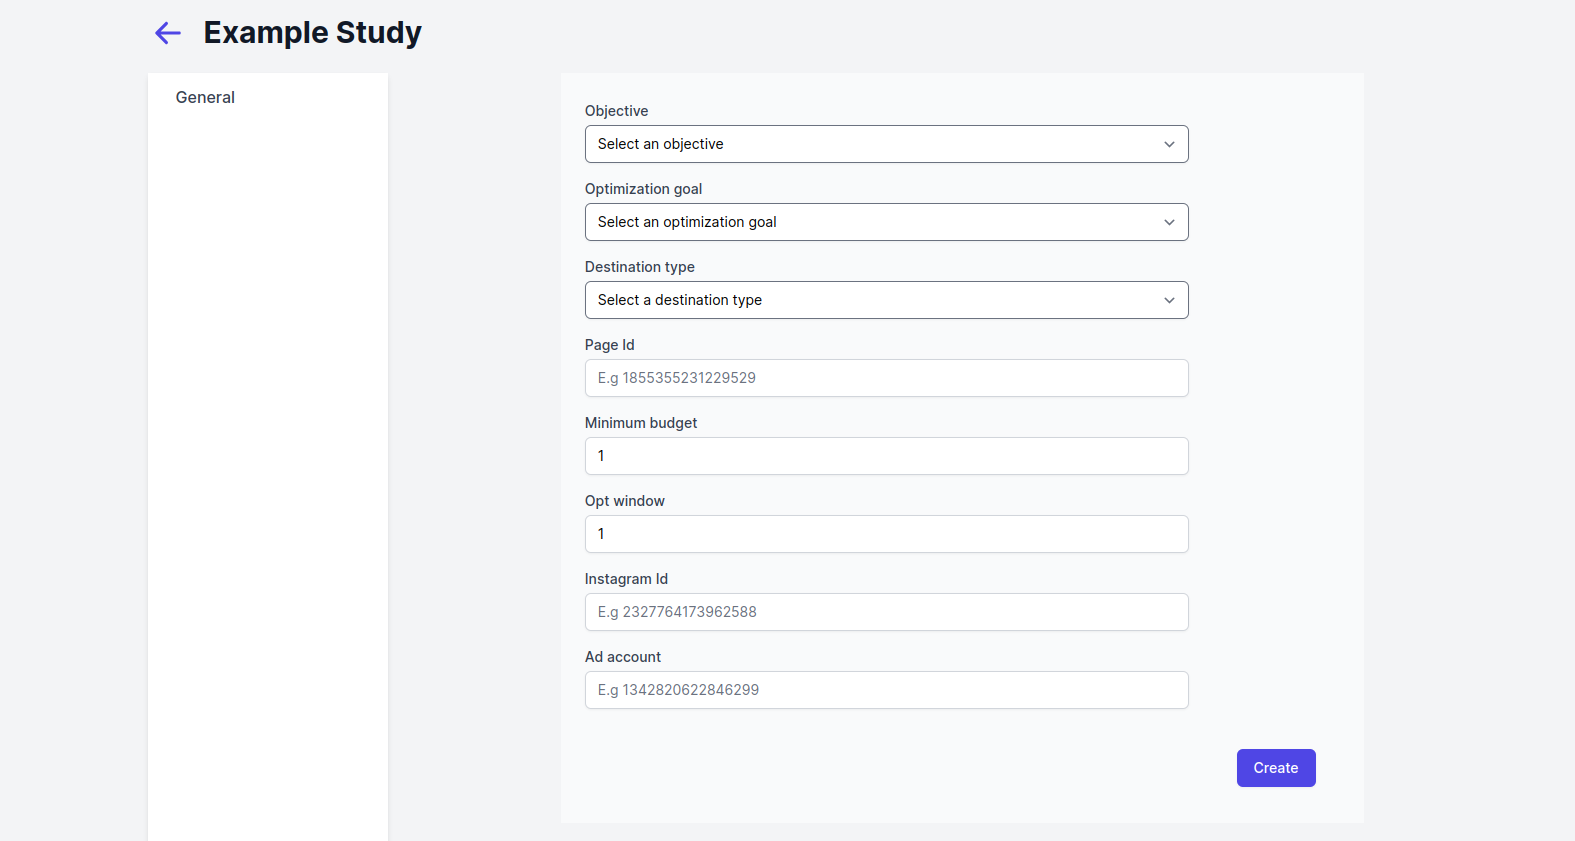
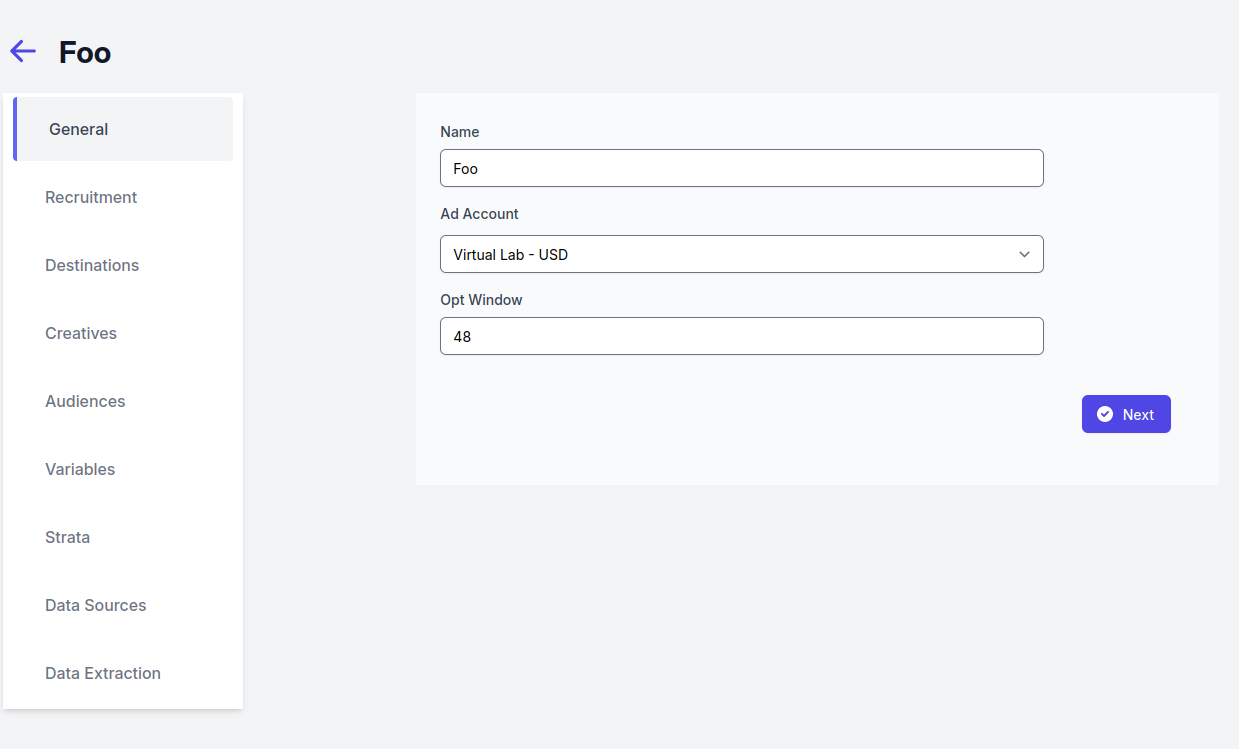
feat: added new config screen docs: data sources/extraction

diff --git a/content/vlab/study-configuration/recruitment.md b/content/vlab/study-configuration/recruitment.md
@@ -13,22 +13,29 @@ There are currently 3 types of recruitments:
 2. [Pipeline Experiment](#pipeline-experiment)
 3. [Destination Experiment](#destination-experiment)
 
+## Shared Fields
+
+Some fields are shared by all recruitment types:
+
+- `Ad Campaign Name`: This is the name of the ad campaign that will be created for recruitment.
+- `Objective`: This is the Facebook "objective" of the recruitment campaign. You can read about the various objectives [here](https://www.facebook.com/business/help/1438417719786914). Certain objectives allow for certain optimization goals. For example, if you want to optimize for "messages," you might pick "engagement" as the objective.
+- `Optimization Goal`: The Facebook optimization goal, also called the "performance goal." You can read more about the goals [here](https://www.facebook.com/business/help/416997652473726).
+- `Destination Type`: The type of destination that the ad will route people to. For example, if you're sending people to a Messenger chatbot, use "messenger." If you're sending people to a web survey, pick "web."
+- `Minimum Budget`: The minimum budget used by ads. No ad will ever run with less than this and this will be used as the starting/default budget when recruitment begins.
+- `Start Date`: The date in which the recruiting should start.
+- `End Date`: The date on which the recruiting should end.
+
 ## Simple
 
 This is the easiest of the recruiting strategies where the Virtual Labs platform will
 routinely check your ad campaign and update the campaign accordingly to try and
 achieve your recruiting goals.
 
-![recruitment simple conf](/images/recruitment-simple-conf.png)
 
 You will need to provide the following fields:
 
-- `Ad Campaign Name`: This is the name of the ad campaign that this recruitment
-    should be targeting
-- `Budget`: The amount you would like to spend in order to recruit your target
-- `Max Sample`: This is the maximum sample size
-- `Start Date`: The date in which the recruiting should start
-- `End Date`: The date on which the recruiting should end
+- `Budget`: The amount you would like to spend in order to recruit your maximum sample.
+- `Max Sample`: This is the maximum number of respondents to recruit.
 
 ## Destination Experiment
 
@@ -43,23 +50,17 @@ You will need to have the destinations configured and you will then need to set 
     of your experiment
 - `Destinations`: The list of destinations that should be involved within the
     experiment
-- `Start Date`: The date in which the recruiting should start
-- `End Date`: The date on which the recruiting should end
 
 
 ## Pipeline Experiment
 
 In this design, we generate an A/B test on Facebook but instead of sending your sample to different destinations, we run the ads at different times (a pipeline experiment design). You can set up how long each arm runs, and how long they are offset from the start of the previous arm.
 
-![recruitment pipeline conf](/images/recruitment-pipeline-conf.png)
-
 You will need to provide the following fields:
 
 - `Ad Campaign Name Base`: The name of the ad campaign(s) that vlab will create and use for recruitment. If you have more than one campaign (i.e. Destination Experiment), it will append -1, -2, etc. to this name
 - `Budget Per Arm`: How much you would like to spend per arm of your experiment
 - `Max Sample Per Arm`: How big of a sample you would like to set for each arm
-- `Start Date`: The date in which the recruiting should start
-- `End Date`: The date on which the recruiting should end
 - `Arms`: How many arms of the experiment would you like to create
 - `Recruitment Days`: How many days you would like the recruitment to run for
 - `Offset Days`: How many days you would like to pause the recruiting for

diff --git a/content/vlab/study-configuration/destination.md b/content/vlab/study-configuration/destination.md
@@ -9,24 +9,29 @@ Every study needs a destination, where do the recruitment ads send the users? De
 
 Towards that end, Virtual Lab supports a set a "destinations" and is written in such a way that it is easy to add a new destination. When configuring your study, you can create one or more destinations and each destination needs a unique name (key) that you can refer to it by.
 
+All destinations require the following fields:
+
+- `name`: The name of the destination, used to refer to it in other configuration screens.
+
 The following are currently supported along with their method of configuation:
 
-Fly Messenger Survey Destination. This creates "Messenger ads" in Facebook for when you want the user to be directed to a Fly Messenger Survey. It requires the following parameters:
+## Messenger
 
-- `initial_shortcode`: str The shortcode of the initial form users should be sent to.
-- `survey_name`: str The survey that contains all the forms with data of interest.
+This is a Fly Messenger Survey Destination. This creates "Messenger ads" in Facebook for when you want the user to be directed to a Fly Messenger Survey. It requires the following parameters:
 
-Typeform. Each Typeform destination needs the following parameters:
+- `Initial Shortcode`: The shortcode of the initial form users should be sent to.
+- `Welcome Message`: When someone clicks on your ads, they are directed to a Messenger chat with this initial message.
+- `Button Text`: This is the button that they click in the chat, in response to the welcome message, in order to start taking the survey.
 
-- `form_id`: str The Form ID of the Typeform you wish to send users to.
+## Web
 
-Curious Learning Literacy Apps. Requires the following parameters:
+- `Url Template`: The URL of the web survey, with `{ref}` wherever you want the Virtual Lab "ref" to be inserted into the URL. Virtual Lab "refs" contain a set of key-value pairs, separated by periods (`.`), containing metadata for each ad.
 
-- `from`: int Starting timestamp for retrieving app events from Literacy Data API.
-- `app_id`: str The app ID for the Google Play store.
-- `facebook_app_id`: str he app ID for Facebook.
-- `deeplink_template`: str
-- `app_install_state`: str
-- `user_device`: list[str]
-- `user_os`: list[str]
-- `attribution_id`: str
+## App
+Requires the following parameters:
+
+- `Facebook App ID`: The app ID for Facebook.
+- `Deeplink Template`: The deeplink template to link to the app, with `{ref}` wherever you want the Virtual Lab "ref" to be inserted into the URL. Virtual Lab "refs" contain a set of key-value pairs, separated by periods (`.`), containing metadata for each ad.
+- `App Install State`: The app install state, as per Facebook
+- `User Device`: The targeted devices.
+- `User OS`: Targeted install states.

diff --git a/content/vlab/study-configuration/creative.md b/content/vlab/study-configuration/creative.md
@@ -1,12 +1,27 @@
 ---
-title: "Creative"
+title: "Creatives"
 date: 2023-04-05T08:41:10+02:00
 draft: false
 weight: 8
 ---
 
-Recruitment needs ads and ads need creative. Each creative consists of one of several fields:
+What ads do you want to use to recruit respondents to your study? This is what we need to define with "Creatives".
 
-[fields]
+You first need to create what we call "template ads." To create any ad in Facebook, you first need to create a campaign, and we require that all template ads are in the same campaign, which we can also call a "template campaign". Template campaigns, and template ads, are never actually run. Virtual Lab uses them as "templates" to build its own campaigns and ads, which it will manage.
+
+Some parts of the template ads are ignored and some are used. The following parts of the ad will be ignored:
+
+- Ad name.
+- Anything related to a messenger destinations, including "Message template."
+- Anything related to destination URLs, including URL parameters.
+- Tracking.
+
+The parts that will be used are:
+
+- Identity: Facebook Page and/or Instagram account.
+- Ad setup: Using an existing post or creating new material.
+- Ad creative: The images and/or videos you choose, along with any optimizations. Also, the Primary text, Headline, Description, and Call to Action.
+
+By selecting a template campaign, you can then add as many "creatives" as you wish, selecting different template ads from the template campaign, and giving each a name which is used to refer to them in other configuration screens.
 
 Each creative also needs to be linked to a particular "destination". If you only have one destination (simple recruitment or pipeline experiment), they will all link to the same destination. If you have multiple destinations (Destination Experiment), then you need to specify different creative for each destination.

diff --git a/content/vlab/study-configuration/general.md b/content/vlab/study-configuration/general.md
@@ -5,11 +5,7 @@ draft: False
 weight: 0
 ---
 
-General Configuration is still pretty Facebook specific. This is used to setup
-the study and "glue" together all the various other configurations.
-
-You can configure the general configuration by going to the studies list page
-and clicking on the "configure" icon at the right of the study
+You can configure the general configuration by going to the studies list page and clicking on the "configure" icon at the right of the study
 
 This should open the following page:
 
@@ -17,11 +13,5 @@ This should open the following page:
 
 ### Fields
 
-- `Objective (required)`:
-- `Optimization Goal (required)`: What are we trying to optimize for?
-- `Destination Type (required)`: The type of destination that we are routing recruited people to
-- `Page Id (required)`: The identifier for the Facebook page that the study will be run from
-- `Minimum Budget (required)`: The minimum budget for the campaign
-- `Opt Window (required)`:
-- `Instagram Id (optional)`: The identifier of the Instagram account to use to target recruits
-- `Ad Account (required)`: The Ad's account to use to setup the ads used to recruit
+- `Ad Account`: The Facebook Ad Account that will run the ads used for recruitment.
+- `Opt Window`: This is the "optimization window." When the optimization algorithm estimates the price of any given stratum, it looks at the previous X hours, where X is defined with "Opt Window".

diff --git a/content/vlab/study-configuration/data_extraction.md b/content/vlab/study-configuration/data_extraction.md
@@ -1,0 +1,26 @@
+---
+title: Data Extraction
+weight: 18
+---
+
+In order to know which respondent corresponds to which strata, and who "finished," we need to extract "variables" from the data source.
+
+Virtual Lab maps variables from data sources into an internal name and format, so that it can optimize over them. This is where you define that mapping.
+
+The way you define the mapping depends on the data source, but there are some shared fields:
+
+- `Name`: This is the name of the variable as you wish it to be referred to in Virtual Lab. For example, this should be the name of a variable defined under Variables or under Strata (Finished Question Ref).
+
+The rest depend on the data source:
+
+# Fly
+
+- `Location`: Where is the data located, is it in "metadata" or is it an individual "variable" (question)?
+- `Key`: The name of the variable, within Fly, that you want to extract. This is the "question ref" defined when creating the Fly survey.
+- `Response`: Whether or not you want the value of the raw response or the "translated response" from Fly.
+
+
+# Qualtrics
+
+- `Location`: Where is the data located, is it in "metadata" (user metadata) or is it an individual "variable" (question)?
+- `Key`: The name of the variable, within Qualtrics, that you want to extract. This often has the form of "Q11" or something to that effect.

diff --git a/content/fly/questions.md b/content/fly/questions.md
@@ -168,6 +168,36 @@ JSON:
 
 Where `FORM_SHORTCODE` is the shortcode of the form you'd like to move to.
 
+## Wait - External Events
+
+You can wait on external events. For example, linksniffer events allow you to wait until someone clicks a link. Or MovieHouse events allow you to wait until someone has started (or finished) a video.
+
+For example, this JSON would wait for a moviehouse:play event with the video id 23456:
+
+```json
+{ "type": "wait",
+ "wait": {
+ "type": "external",
+ "value": {
+    "type": "moviehouse:play",
+    "id": "23456"
+  }}
+}
+```
+
+If you want to wait for any moviehouse:play event, regardless of video id, you can simply omit part of the json from the "value" property:
+
+```json
+{ "type": "wait",
+ "wait": {
+ "type": "external",
+ "value": {
+    "type": "moviehouse:play"
+  }}
+}
+```
+
+
 ## Wait - Timeout
 
 Timeouts allow you to pause your survey and continue it later, creating multi-wave surveys. There are three ways to create a timeout:

diff --git a/content/vlab/study-configuration/strata.md b/content/vlab/study-configuration/strata.md
@@ -1,0 +1,12 @@
+---
+title: Strata
+weight: 14
+---
+
+Variables, defined earlier, are really just a means to an end. We're trying to create "strata" that are used for stratification.
+
+You will need to select the following fields before generating your strata from the defined variables:
+
+- `Finish Question Ref`: this is the variable name, to be defined in Data Extraction, that determines you has finished the survey. We consider a respondent "recruited" if they answer this question.
+
+After you generate the strata, you can manually change the "quota" for each stratum, which is a relative percentage of recruited individuals from that stratum, as well as select which creative you want to use for that strata. All creative are by default selected for each stratum, but if you created different creative for each stratum, you can select those here.

diff --git a/content/vlab/core-concepts.md b/content/vlab/core-concepts.md
@@ -12,4 +12,4 @@ To do so, Virtual Lab needs to know a few things:
 2. What should the ads look like? This is called `Creative`.
 3. How should the ads be targeted to different types of people? This is defined with `Variables` and `Strata`.
 4. How much money can be spent on advertising and over what period of time? This is called `Recruitment`.
-5. How will Virtual Lab know how many, and what type, of people have been fully recruited? This involves configuring a `Source` and defining a set of `Inference Variables` used to determine stratification.
+5. How will Virtual Lab know how many, and what type, of people have been fully recruited? This involves configuring a `Data Source` and defining a set of `Data Extraction` variables used to determine stratification.

diff --git a/content/vlab/study-configuration/data_sources.md b/content/vlab/study-configuration/data_sources.md
@@ -1,0 +1,12 @@
+---
+title: Data Sources
+weight: 16
+---
+
+To know when a respondent is "recruited," Virtual Lab needs to connect to a "data source" which has information about the respondent. This might be, for example, "Fly" or "Qualtrics" if you are running a survey on the Fly or Qualtrics platforms, respectively.
+
+Virtual Lab supports several external platforms as data sources: Fly, Qualtrics, and Typeform.
+
+In order to connect to an external platform and pull data, we need to use API credentials. These are secrets, tokens, or passwords used to pull your data from the other platform.
+
+You must first add these credentials under Connected Accounts, then you can pick the credential you wish to use for each respective data source on this screen.

diff --git a/content/vlab/study-configuration/audience.md b/content/vlab/study-configuration/audience.md
@@ -1,0 +1,8 @@
+---
+title: "Audiences"
+date: 2023-04-05T08:41:10+02:00
+draft: false
+weight: 9
+---
+
+You must create one audience, which will contain all your respondents. Just clicking "Next" on this page will suffice, it's automatically named and created.
